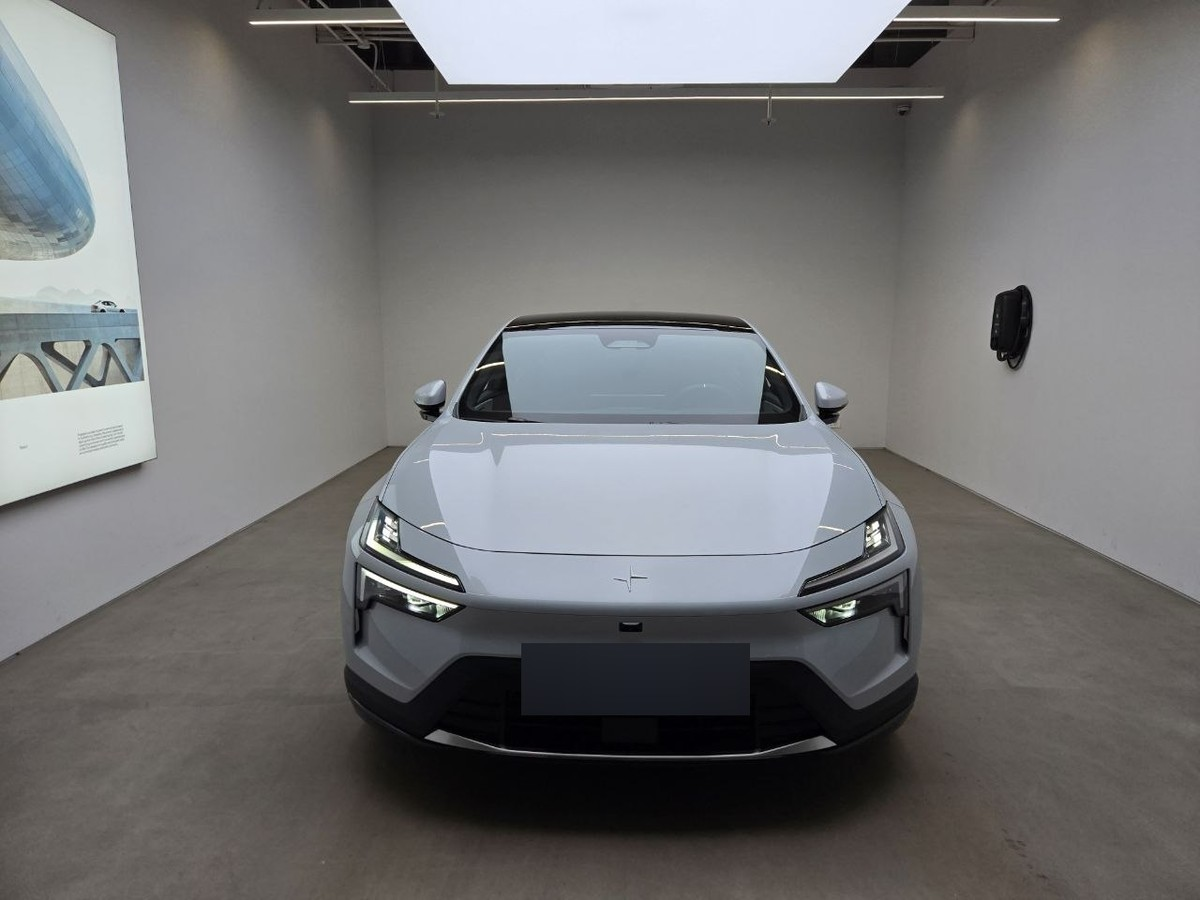
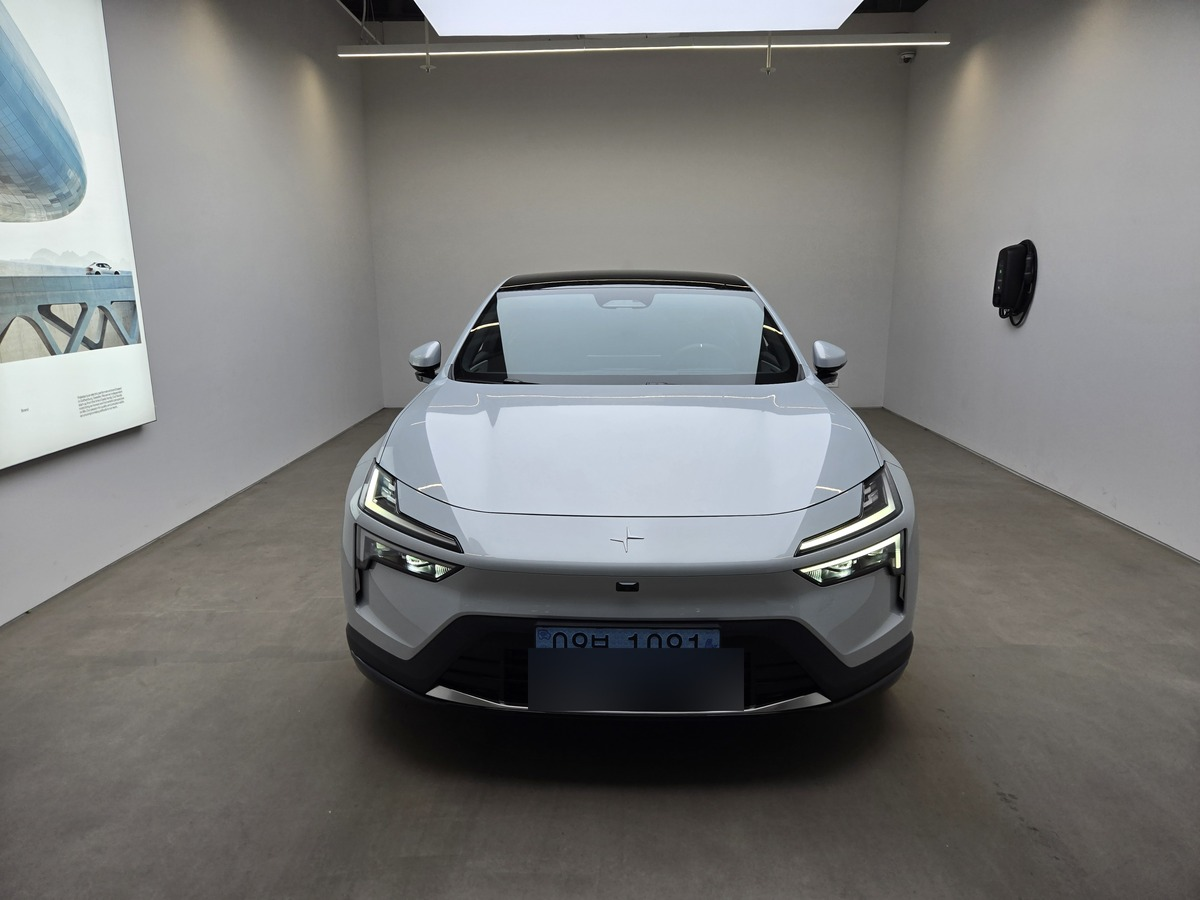
폴스타4: 전시장 실사로 교체 + 색상 마그네슘으로 정정

diff --git a/docs/06-life/cars/polestar-4.html b/docs/06-life/cars/polestar-4.html
@@ -2,15 +2,15 @@
 <meta name="viewport" content="width=device-width, initial-scale=1">
 <title>폴스타 4 (현재) · jangbc's AI life</title>
 <link rel="stylesheet" href="../../assets/style.css?v=78bac738">
-<meta name="description" content="🚗 폴스타 4 차량 정보 차종 : 폴스타 4 (전기 SUV 쿠페) 색상 : 스노우 비고 : 현재 타는 차 · 스튜디오 렌더 이미지 관련 : 직접 만든 오버레이 앱 10종을 이 차에서 테스트">
+<meta name="description" content="🚗 폴스타 4 차량 정보 차종 : 폴스타 4 (전기 SUV 쿠페) 색상 : 마그네슘 (Magnesium) 비고 : 현재 타는 차 · 전시장 실사 (2025 02 20 촬영) 관련 : 직접 만든 오버레이 앱 10종을 이 차에서 테스트">
 <meta name="robots" content="index,follow,max-image-preview:large">
 <link rel="canonical" href="https://96jangbc.github.io/plab/06-life/cars/polestar-4.html">
 <meta property="og:type" content="article">
 <meta property="og:title" content="폴스타 4 (현재) · jangbc's AI life">
-<meta property="og:description" content="🚗 폴스타 4 차량 정보 차종 : 폴스타 4 (전기 SUV 쿠페) 색상 : 스노우 비고 : 현재 타는 차 · 스튜디오 렌더 이미지 관련 : 직접 만든 오버레이 앱 10종을 이 차에서 테스트">
+<meta property="og:description" content="🚗 폴스타 4 차량 정보 차종 : 폴스타 4 (전기 SUV 쿠페) 색상 : 마그네슘 (Magnesium) 비고 : 현재 타는 차 · 전시장 실사 (2025 02 20 촬영) 관련 : 직접 만든 오버레이 앱 10종을 이 차에서 테스트">
 <meta property="og:url" content="https://96jangbc.github.io/plab/06-life/cars/polestar-4.html">
 <meta name="twitter:card" content="summary_large_image">
-<script type="application/ld+json">{"@context":"https://schema.org","@type":"BlogPosting","headline":"폴스타 4 (현재) · jangbc's AI life","description":"🚗 폴스타 4 차량 정보 차종 : 폴스타 4 (전기 SUV 쿠페) 색상 : 스노우 비고 : 현재 타는 차 · 스튜디오 렌더 이미지 관련 : 직접 만든 오버레이 앱 10종을 이 차에서 테스트","inLanguage":"ko","url":"https://96jangbc.github.io/plab/06-life/cars/polestar-4.html","image":"https://96jangbc.github.io/plab/assets/img/hero-p4.jpg","author":{"@type":"Person","name":"jangbc"},"publisher":{"@type":"Organization","name":"jangbc's AI life"}}</script>
+<script type="application/ld+json">{"@context":"https://schema.org","@type":"BlogPosting","headline":"폴스타 4 (현재) · jangbc's AI life","description":"🚗 폴스타 4 차량 정보 차종 : 폴스타 4 (전기 SUV 쿠페) 색상 : 마그네슘 (Magnesium) 비고 : 현재 타는 차 · 전시장 실사 (2025 02 20 촬영) 관련 : 직접 만든 오버레이 앱 10종을 이 차에서 테스트","inLanguage":"ko","url":"https://96jangbc.github.io/plab/06-life/cars/polestar-4.html","image":"https://96jangbc.github.io/plab/assets/img/hero-p4.jpg","author":{"@type":"Person","name":"jangbc"},"publisher":{"@type":"Organization","name":"jangbc's AI life"}}</script>
 <meta property="og:image" content="https://96jangbc.github.io/plab/assets/img/hero-p4.jpg">
 <link rel="icon" type="image/png" href="../../assets/img/favicon-32.png?v=78bac738">
 <link rel="apple-touch-icon" href="../../assets/apple-touch-icon.png?v=78bac738"></head><body>
@@ -152,8 +152,8 @@
 <h2>차량 정보</h2>
 <ul>
 <li><strong>차종</strong>: 폴스타 4 (전기 SUV 쿠페)</li>
-<li><strong>색상</strong>: 스노우</li>
-<li><strong>비고</strong>: <strong>현재 타는 차</strong> · 스튜디오 렌더 이미지</li>
+<li><strong>색상</strong>: 마그네슘 (Magnesium)</li>
+<li><strong>비고</strong>: <strong>현재 타는 차</strong> · 전시장 실사 (2025-02-20 촬영)</li>
 <li><strong>관련</strong>: <a href="../../03-hobby/polestar-apps/index.html">직접 만든 오버레이 앱 10종</a>을 이 차에서 테스트</li>
 </ul><section class="comments"><h3>💬 댓글</h3>
 <script src="https://giscus.app/client.js"

diff --git a/content/06-life/cars/polestar-4.md b/content/06-life/cars/polestar-4.md
@@ -7,6 +7,6 @@ title: 폴스타 4 (현재)
 
 ## 차량 정보
 - **차종**: 폴스타 4 (전기 SUV 쿠페)
-- **색상**: 스노우
-- **비고**: **현재 타는 차** · 스튜디오 렌더 이미지
+- **색상**: 마그네슘 (Magnesium)
+- **비고**: **현재 타는 차** · 전시장 실사 (2025-02-20 촬영)
 - **관련**: [직접 만든 오버레이 앱 10종](../../03-hobby/polestar-apps/index.html)을 이 차에서 테스트
